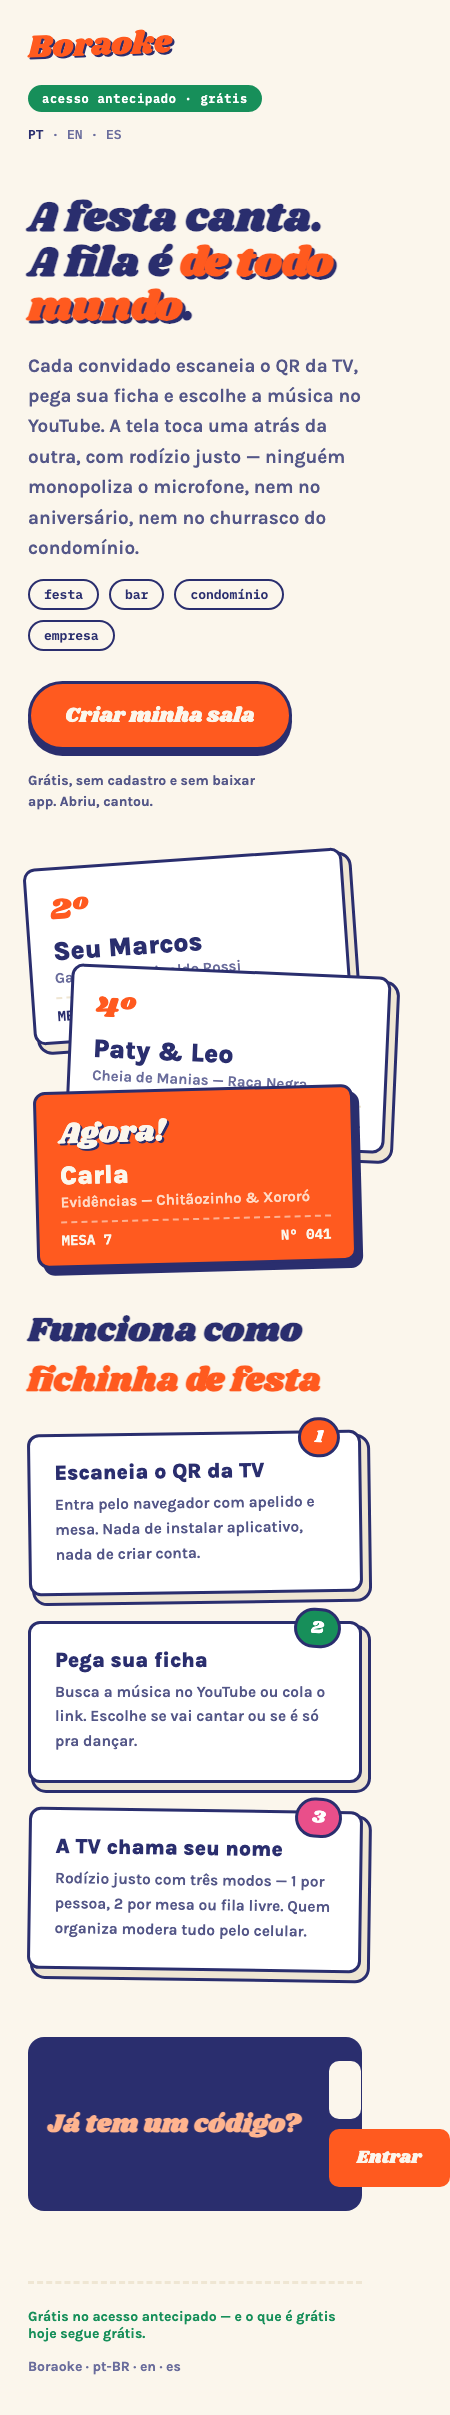
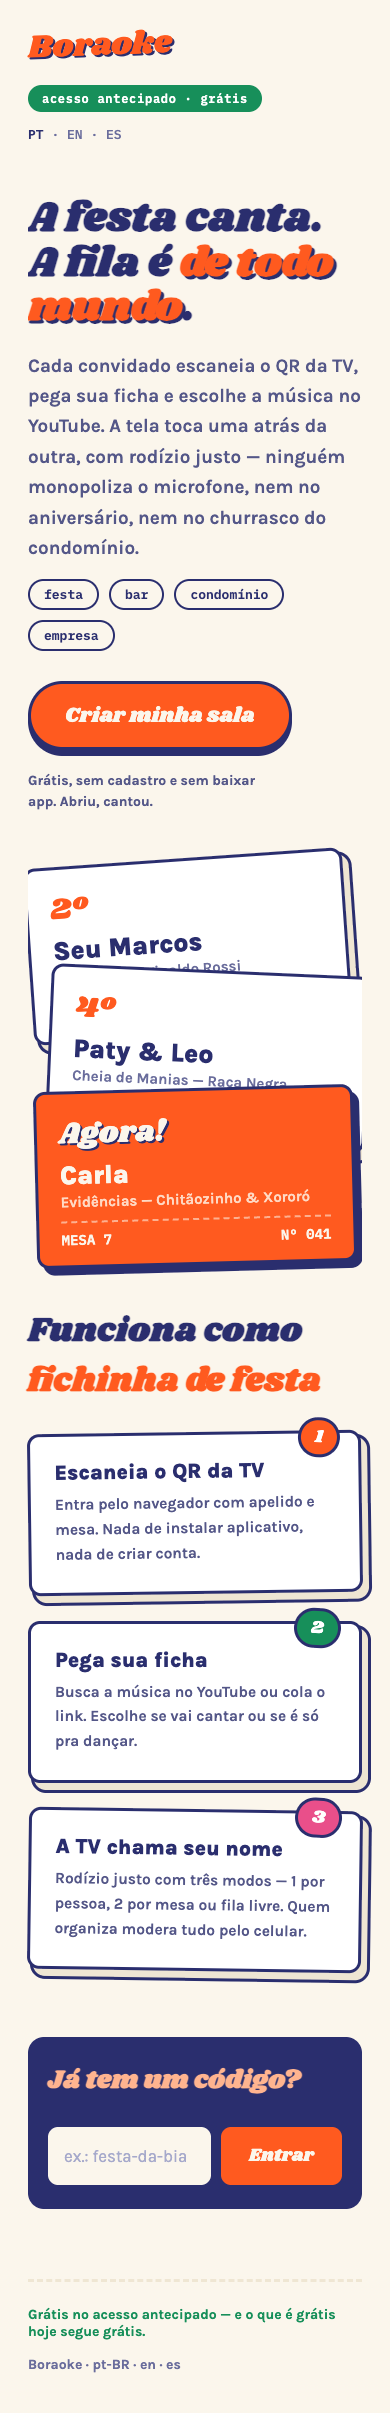
design(TICKET-84): remove body-level overflow-x masks; recapture d3 landing 390px shot
The d3-comanda landing overflowed to 450px at a 390px viewport (hero ticket
pile: absolutely-positioned 320px .tk cards). The real fix — media rules
shrinking cards to min(320px, 82vw) with reduced offsets — was already in
place; the leftover body { overflow-x: hidden } masks (d3 + d4 landings)
are removed so the pages pass honestly. All 16 file/viewport combinations
verified: scrollWidth <= innerWidth with webfonts loaded.

Changed region(s): [[0.0308, 0.0, 1.0, 0.9946], [0.7077, 0.3419, 0.8, 0.4041], [0.5231, 0.9324, 0.5538, 0.9635]]

diff --git a/work/design/redesign-2026-08/d4-madrugada-landing.html b/work/design/redesign-2026-08/d4-madrugada-landing.html
@@ -23,7 +23,6 @@
       radial-gradient(900px 560px at 0% 55%, rgba(124,255,79,0.10), transparent 65%);
     color: #fff;
     font-family: "Chakra Petch", sans-serif;
-    overflow-x: hidden;
   }
   .chrome {
     font-family: "Anton", sans-serif;

diff --git a/work/design/redesign-2026-08/d3-comanda-landing.html b/work/design/redesign-2026-08/d3-comanda-landing.html
@@ -21,7 +21,6 @@
     background: var(--papel);
     color: var(--tinta);
     font-family: "Karla", sans-serif;
-    overflow-x: hidden;
   }
   .pagina { max-width: 1180px; margin: 0 auto; padding: 0 28px; }
 
